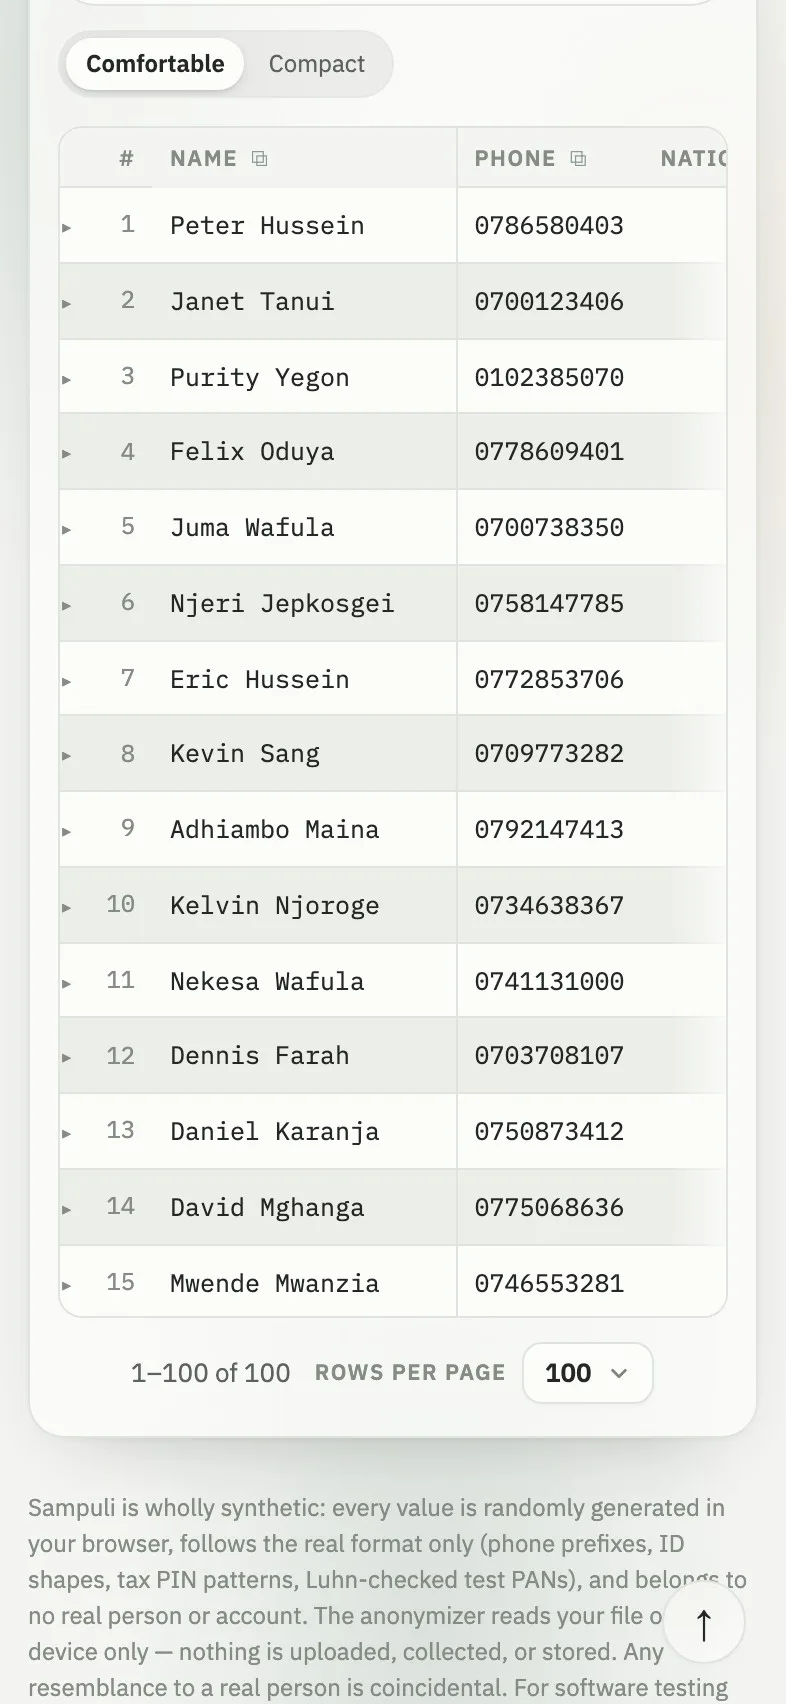
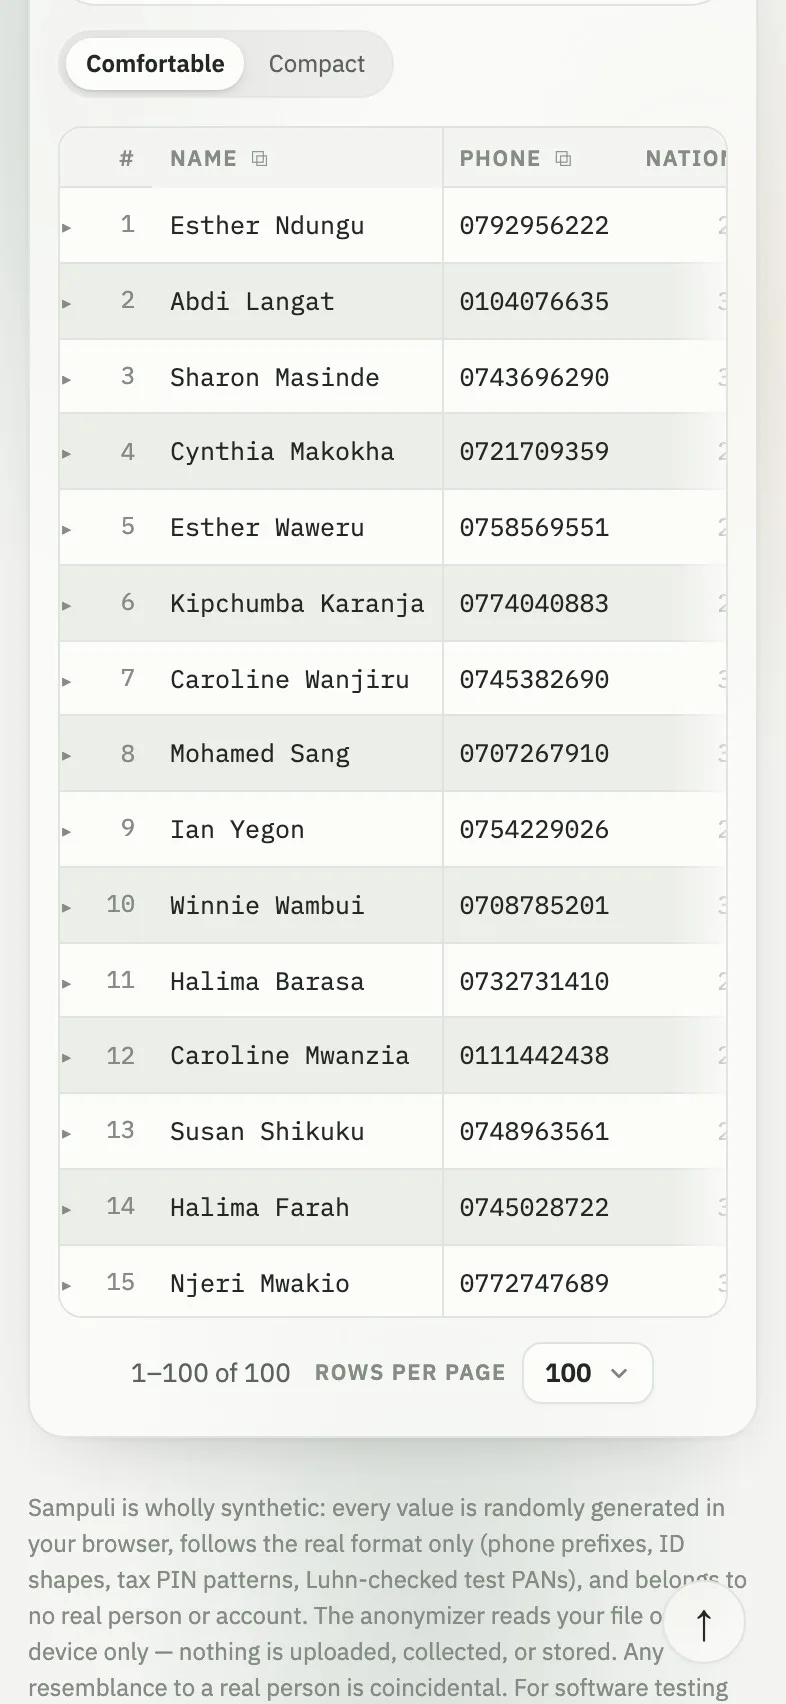
Sampuli chapter: the REST API joins npm, 90 packs, 706 tests
Sampuli grew again — a free, keyless, CORS-open REST API now lives at
sampuli.site/api/v1, the pack count reached 90 (six continents still
true), and the suite is at 706 tests. The chapter keeps up: eyebrow
'browser, npm and API', flag 'New · npm + API', a curl chip tile ('Or
just a URL') linking to the API docs, and refreshed journey screenshots
from the live 90-pack app. The Luhn card demo tile gave up its slot to
the API; its no-real-people promise lives in the chapter sub.

Every claim verified against production before writing: the live API
index itself reports 90 countries, the demo endpoint returns a seeded
German IBAN, npm serves @sampuli/data 0.3.1, and the suite ran green at
706 locally. @sampuli/mcp exists in the repo but is NOT on npm yet, so
it is deliberately absent from the site.

diff --git a/src/App.jsx b/src/App.jsx
@@ -50,10 +50,10 @@ const PRODUCTS = [
     deep: '#4F46E5',
     glow: 'rgba(99, 102, 241, 0.26)',
     screenBg: '#f3f5f3',
-    eyebrow: 'Test data · in the browser and on npm',
-    flag: 'New · on npm',
+    eyebrow: 'Test data · browser, npm and API',
+    flag: 'New · npm + API',
     headline: ['Synthetic data that', 'passes every check.'],
-    sub: 'Format-true synthetic test data — 52 country packs, in the browser or one npm install — belonging to no real person.',
+    sub: 'Format-true synthetic test data — 90 country packs, in the browser, one npm install or one HTTP call — belonging to no real person.',
     shots: { desktop: '/shots/sampuli-desktop', mobile: '/shots/sampuli-mobile.webp' },
   },
   {
@@ -450,7 +450,7 @@ function SampuliTiles() {
   return (
     <div className="bento">
       <article className="tile" data-reveal>
-        <p className="tile__big">52</p>
+        <p className="tile__big">90</p>
         <h3 className="tile__title">Country packs, six continents</h3>
         <p className="tile__body">Each market researched and checksum-verified before it ships — omitted rather than guessed.</p>
       </article>
@@ -467,20 +467,25 @@ function SampuliTiles() {
           </div>
         </a>
         <h3 className="tile__title">One install, every pack</h3>
-        <p className="tile__body">The same engine as an npm package — all 52 countries in your tests and CI. Free, MIT, zero dependencies.</p>
+        <p className="tile__body">The same engine as an npm package — all 90 countries in your tests and CI. Free, MIT, zero dependencies.</p>
       </article>
       <article className="tile" data-reveal>
-        <div className="demo">
-          <div className="demo__card">
-            <p className="demo__pan">4048 8912 3456 7893</p>
-            <p className="demo__ok">✓ Passes the Luhn check · belongs to no one</p>
+        <a
+          className="demo"
+          href="https://sampuli.site/api"
+          target="_blank"
+          rel="noopener noreferrer"
+          aria-label="Sampuli REST API docs"
+        >
+          <div className="demo__npm">
+            <p><span className="demo__prompt">$</span> curl sampuli.site/api/v1/de/account</p>
           </div>
-        </div>
-        <h3 className="tile__title">Real formats, no real people</h3>
-        <p className="tile__body">Everything is entirely synthetic, generated on your machine and format-checked. Nothing is collected or stored.</p>
+        </a>
+        <h3 className="tile__title">Or just a URL</h3>
+        <p className="tile__body">A free REST API — no key, no signup, CORS-open. The same engine for Postman, pipelines and every non-JS stack.</p>
       </article>
       <article className="tile" data-reveal>
-        <p className="tile__big">440 tests</p>
+        <p className="tile__big">706 tests</p>
         <h3 className="tile__title">On every release</h3>
         <p className="tile__body">Checksums proven against known vectors, pack contracts and export shapes — green in CI across the app and the package.</p>
       </article>
